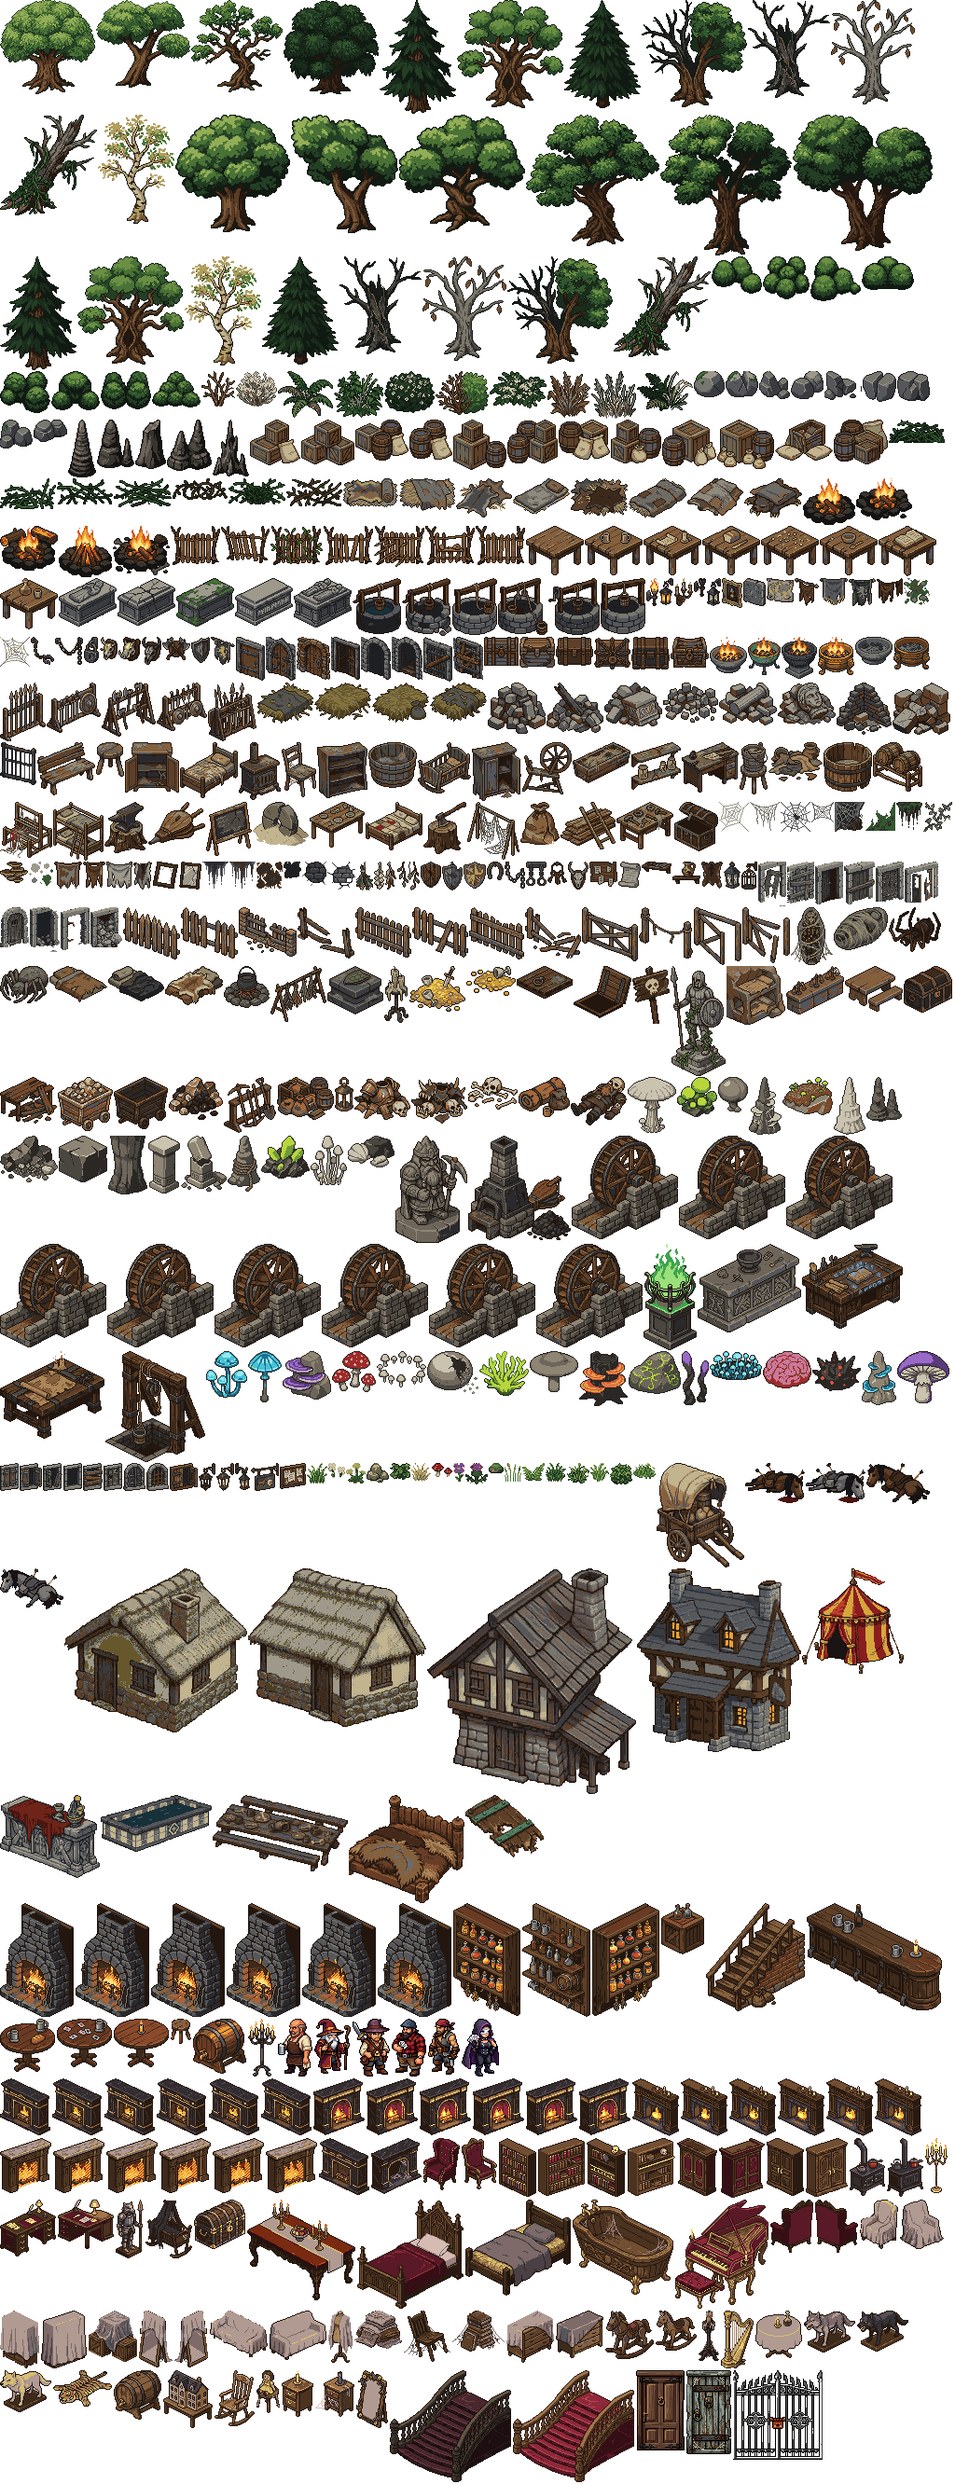
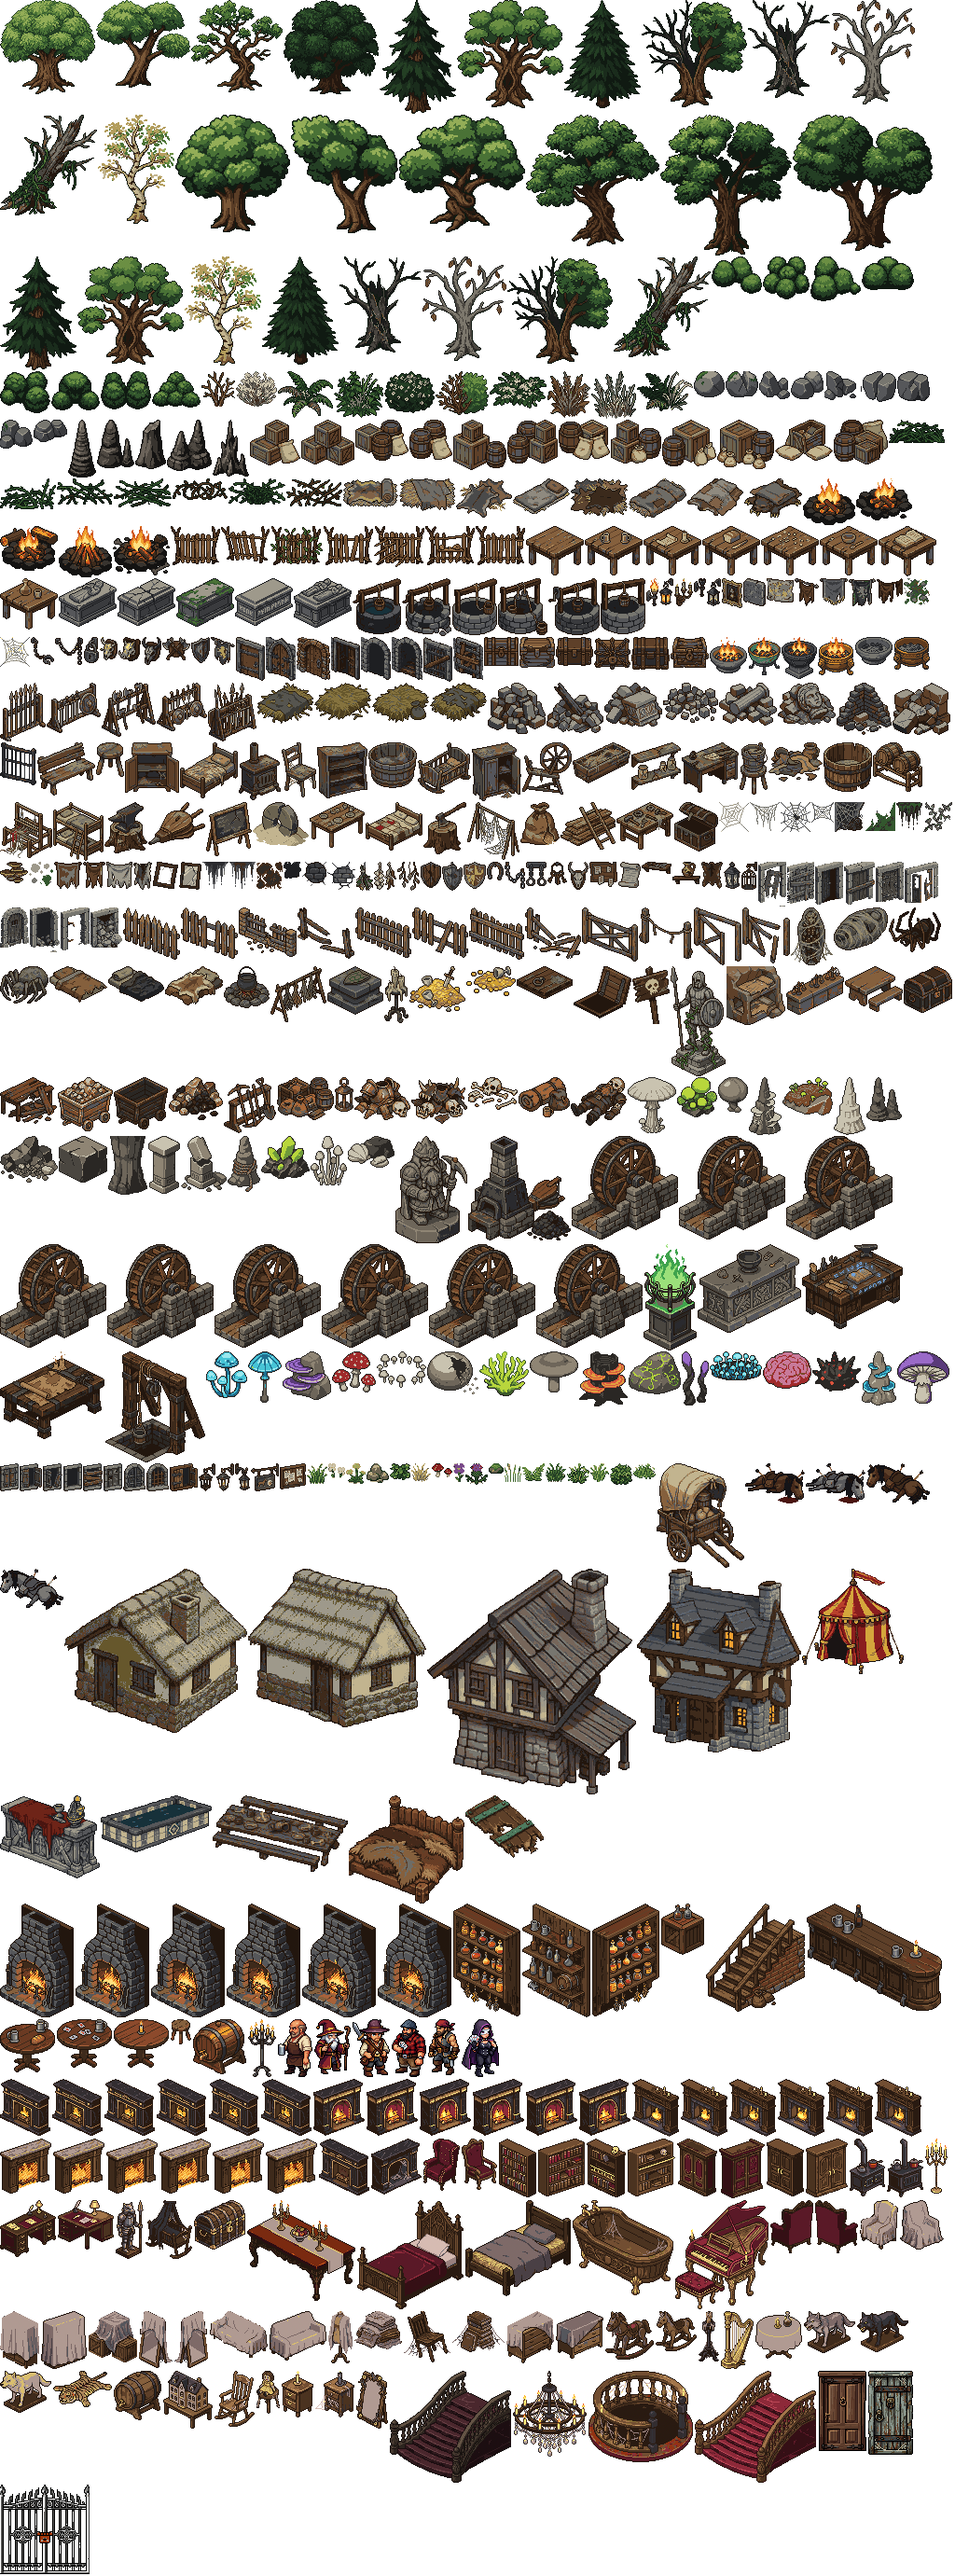
Casa da Morte: piso por sala, luz quente das lareiras, lustre, vão da escada do 3º andar e textos das áreas reescritos
- piso: parquet na sala de jantar, laje na cozinha, despensa, vestíbulo, banheiro e sala secreta, assoalho no resto
- ambiente.js: lareiras acesas e candelabros da casa viram poça de luz quente
- casa-objetos-1dir.py: casaLustre e casaVaoEscada; o lustre pende acima da mesa (folga alta e deslocamento), o vão do 3º andar é só o corrimão
- textos das áreas (biblioteca, salão, canil, banheiro, depósito, suíte da babá, quarto das crianças) em palavras nossas

diff --git a/src/game/casadamorte.js b/src/game/casadamorte.js
@@ -20,10 +20,10 @@ export { MAPA_CASA_DA_MORTE_3, MAPA_CASA_DA_MORTE_4, TERCEIRO_ANDAR, SOTAO };
 // com o pórtico 1A) e o canil de lobos (3) ao sul. O vestíbulo, ao lado do armário (2B), liga a sala de jantar à cozinha.
 export const PLANTA_1 = plantaDeSalas({
   salas: [
-    { id: 'jantar', retangulos: [[0, 0, 3, 2], [1, 3, 1, 3]] },
-    { id: 'despensa', retangulos: [[4, 0, 5, 0]] },
-    { id: 'cozinha', retangulos: [[4, 1, 5, 3]] },
-    { id: 'vestibulo', retangulos: [[3, 3, 3, 3]] },
+    { id: 'jantar', piso: '-', retangulos: [[0, 0, 3, 2], [1, 3, 1, 3]] },
+    { id: 'despensa', piso: 'L', retangulos: [[4, 0, 5, 0]] },
+    { id: 'cozinha', piso: 'L', retangulos: [[4, 1, 5, 3]] },
+    { id: 'vestibulo', piso: 'L', retangulos: [[3, 3, 3, 3]] },
     { id: 'vestiario', retangulos: [[2, 3, 2, 3]] },
     { id: 'salao', retangulos: [[0, 4, 5, 6]] },
     { id: 'espera', retangulos: [[0, 7, 1, 9]] },
@@ -42,10 +42,10 @@ export const PLANTA_1 = plantaDeSalas({
 export const PLANTA_2 = plantaDeSalas({
   piso: '-',
   salas: [
-    { id: 'biblioteca', retangulos: [[0, 0, 3, 2], [1, 3, 2, 3]] },
-    { id: 'armario', retangulos: [[3, 3, 3, 3]] },
-    { id: 'secreta', retangulos: [[4, 0, 5, 0]] },
-    { id: 'empregados', retangulos: [[4, 1, 5, 3]] },
+    { id: 'biblioteca', piso: 'U', retangulos: [[0, 0, 3, 2], [1, 3, 2, 3]] },
+    { id: 'armario', piso: 'U', retangulos: [[3, 3, 3, 3]] },
+    { id: 'secreta', piso: 'L', retangulos: [[4, 0, 5, 0]] },
+    { id: 'empregados', piso: 'U', retangulos: [[4, 1, 5, 3]] },
     { id: 'salao', retangulos: [[0, 4, 5, 6]] },
     { id: 'conservatorio', retangulos: [[0, 7, 5, 10]] },
   ],
@@ -64,8 +64,8 @@ export const AREAS_TERREO = [
   criarArea({
     id: 'salao', area: '2A', nome: 'O salão principal', cel: [[0, 4, 5, 6]],
     texto: [
-      'Um salão tão largo quanto a casa. Numa ponta, uma lareira de mármore preto; na outra, uma escadaria larga de mármore vermelho, que sobe em curva. Sobre o fogo apagado, uma espada longa de enfeite, com um pequeno moinho no punho.',
-      'Os painéis de madeira da parede são entalhados com videiras, flores, ninfas e sátiros.',
+      'O salão ocupa a largura da casa. Numa ponta, uma lareira de pedra negra; na outra, a escadaria de mármore vermelho sobe em curva. Sobre o fogo apagado repousa uma espada de adorno, com um moinho gravado no punho.',
+      'A madeira das paredes é entalhada em folhagens, flores e figuras de faunos e ninfas.',
     ],
   }),
   criarArea({
@@ -75,8 +75,8 @@ export const AREAS_TERREO = [
   criarArea({
     id: 'canil', area: '3', nome: 'O canil de lobos', cel: [[2, 7, 5, 10]],
     texto: [
-      'Painéis de carvalho, uma cabeça de veado sobre a lareira e três lobos empalhados espalhados pela sala, de bocas abertas. Duas poltronas forradas de pele encaram o fogo, com uma mesa de carvalho entre elas: um barril de vinho, duas taças esculpidas e um suporte de cachimbos.',
-      'Há dois armários contra as paredes. O do leste tem cadeado; o do norte está aberto.',
+      'Uma sala de caça forrada de carvalho. Sobre a lareira, uma cabeça de veado; pelo chão, três lobos empalhados de bocas abertas. Duas poltronas forradas de pele encaram o fogo, e uma mesinha entre elas guarda um barrilete, taças lavradas e um porta-cachimbos.',
+      'Dois armários ficam junto às paredes: o do leste está trancado a cadeado, o do norte, aberto.',
     ],
   }),
   criarArea({
@@ -121,8 +121,8 @@ export const AREAS_SEGUNDO = [
   criarArea({
     id: 'biblioteca', area: '8', nome: 'A biblioteca', cel: [[0, 0, 3, 2], [1, 3, 2, 3]],
     texto: [
-      'Cortinas de veludo vermelho cobrem as janelas. Uma escrivaninha de mogno e uma cadeira de espaldar alto ficam entre a porta e a lareira, e acima do fogo está pendurado um quadro de um moinho de vento sobre um penhasco. Estantes do chão ao teto, uma escada de rodinhas para os livros altos.',
-      'Na escrivaninha: um tinteiro, uma pena, um barrilete de pólvora, uma lamparina e um estojo de carta com lacre vermelho e um selo de madeira com o moinho dos Durst.',
+      'Pesadas cortinas vinho fecham as janelas. Entre a porta e a lareira, uma escrivaninha escura e uma cadeira de encosto alto; sobre o consolo, um quadro mostra um moinho no alto de um rochedo. Os livros chegam ao teto, e uma escadinha sobre trilhos serve às prateleiras de cima.',
+      'O tampo da escrivaninha guarda um tinteiro, uma pena, um pequeno barril de pólvora, uma lamparina e um estojo de cartas lacrado em vermelho, com o selo do moinho dos Durst.',
     ],
   }),
   criarArea({

diff --git a/src/game/casadamorte-alto.js b/src/game/casadamorte-alto.js
@@ -22,7 +22,7 @@ export const PLANTA_3 = plantaDeSalas({
     { id: 'sacadaNorte', retangulos: [[5, 0, 5, 1]] },
     { id: 'espelho', retangulos: [[3, 3, 3, 3]] },
     { id: 'varanda', retangulos: [[1, 3, 2, 3], [2, 4, 5, 6]] },
-    { id: 'banheiro', retangulos: [[0, 4, 1, 5]] },
+    { id: 'banheiro', piso: 'L', retangulos: [[0, 4, 1, 5]] },
     { id: 'deposito', retangulos: [[0, 6, 1, 6]] },
     { id: 'bercario', retangulos: [[0, 7, 1, 8]] },
     { id: 'sacadaSul', retangulos: [[0, 9, 1, 10]] },
@@ -89,20 +89,20 @@ export const AREAS_TERCEIRO = [
   criarArea({
     id: 'banheiro', area: '13', nome: 'O banheiro', cel: [[0, 4, 1, 5]],
     texto: [
-      'Um quarto escuro: banheira de madeira com pés de garra, um fogãozinho de ferro com uma chaleira, um barril sob uma torneira na parede leste. A cisterna do telhado recolhia a água da chuva e a mandava para baixo por um cano. O encanamento não funciona mais.',
+      'Um cômodo sem luz e de ar parado. Há uma banheira de madeira sobre pés de garra, um fogareiro de ferro com uma chaleira e um barril sob uma torneira, junto da parede leste. Antigamente a água da chuva descia do telhado por um cano; hoje o encanamento está seco.',
     ],
   }),
   criarArea({
     id: 'deposito', area: '14', nome: 'O depósito', cel: [[0, 6, 1, 6]],
     texto: [
-      'Prateleiras empoeiradas ao longo das paredes, com lençóis e cobertores dobrados e barras de sabão ressecadas. No fundo, encostada à parede, uma vassoura coberta de teia.',
+      'Prateleiras cobertas de pó correm pelas paredes, com roupa de cama dobrada e pedaços de sabão seco. No fundo, uma vassoura velha, toda enrolada em teia, parece esperar.',
     ],
   }),
   criarArea({
     id: 'suiteBaba', area: '15A', nome: 'A suíte da babá', cel: [[2, 7, 2, 7], [2, 8, 5, 10]],
     texto: [
-      'Poeira e teias sobre um quarto bem decorado: uma cama grande, duas mesas de canto, um guarda-roupa vazio. Preso à parede ao lado do guarda-roupa, um espelho de corpo inteiro com a moldura esculpida como hera e bagas.',
-      'A babá da família era amante do dono da casa. Do caso nasceu um bebê natimorto, Walter, e pouco depois o culto matou a mulher. Uma porta dupla de vitral dá para uma varanda de fora, de frente para a entrada.',
+      'Teias e pó cobrem um quarto antes elegante: uma cama larga, criados-mudos e um guarda-roupa vazio. Na parede, ao lado dele, um espelho alto com a moldura entalhada em hera e frutinhas.',
+      'Diz-se que a babá da família foi amante do dono da casa, que o filho dos dois nasceu morto e que o culto a matou pouco depois. Portas de vitral dão para uma sacada de fora, voltada para a entrada.',
     ],
   }),
   criarArea({
@@ -130,7 +130,7 @@ export const AREAS_SOTAO = [
   criarArea({
     id: 'criancas', area: '20', nome: 'O quarto das crianças', cel: [[2, 0, 4, 2]],
     texto: [
-      'Uma janela tapada por tijolos, duas camas pequenas de estrutura de madeira, empoeiradas, e, perto da porta, um baú de brinquedos com moinhos de vento pintados e uma casa de bonecas que é uma réplica perfeita da casa em que vocês estão. Tudo sob teias.',
+      'A janela foi emparedada com tijolos. Duas caminhas de criança, de madeira, juntam pó; perto da porta há um baú de brinquedos pintado de moinhos e uma casa de bonecas que copia, em miniatura, esta mesma casa. Tudo sob teias.',
       'No meio do chão, dois esqueletos pequenos, de roupas esfarrapadas que vocês reconhecem. O de Thorn abraça o boneco de pano do irmão.',
     ],
   }),

diff --git a/src/game/casadamorte-mobilia.js b/src/game/casadamorte-mobilia.js
@@ -12,7 +12,7 @@
 
 import { D } from './casadamorte-plantas.js';
 
-const PISO_DO_GLIFO = { U: 'assoalho', '*': 'tapete', '-': 'parquet', '+': 'terraSocada' };
+const PISO_DO_GLIFO = { U: 'assoalho', '*': 'tapete', '-': 'parquet', '+': 'terraSocada', L: 'laje' };
 
 /** Põe as peças no terreno e devolve o terreno novo e as anotações de `objetos`. As casas da lista são quadrados do livro (o mapa tem um anel a mais). */
 export function mobiliar(terreno, lista, pisoPadrao = 'assoalho') {
@@ -42,7 +42,7 @@ export const MOBILIA = {
     // sala de jantar (5): lareira na parede oeste, a mesa comprida ao longo de x e as cadeiras do lado do norte (o sul fica livre para a passagem)
     ['casa-lareira:+x', 0, 1],
     ['casa-mesaJantar:+x', 2, 1, { nada: [[1, 1]] }],
-    ['casa-cadeira:+y', 1, 0], ['casa-cadeira:+y', 2, 0], ['casa-candelabro:+y', 0, 0],
+    ['casa-cadeira:+y', 1, 0], ['casa-cadeira:+y', 2, 0], ['casa-candelabro:+y', 0, 0], ['casa-lustre:+y', 2, 2, { baixo: true }],
     // cozinha (4A) e despensa (4B): o forno na parede do norte e a estante da despensa
     ['casa-fogao:+y', 5, 1], ['casa-estante:+y', 5, 0],
     // salão principal (2A): a lareira na parede oeste e a escadaria em curva a leste
@@ -86,7 +86,7 @@ export const MOBILIA = {
     ['casa-berco:+y', 0, 8],
     // suíte da babá (15A): a cama ao longo da parede leste, o guarda-roupa coberto e o espelho coberto junto da porta secreta, na parede do poço
     ['casa-camaVelha:+y', 5, 10, { nada: [[5, 9]] }], ['casa-armarioCoberto:+y', 4, 8], ['casa-espelhoHera:+y', 5, 8], ['casa-criadoVelho:+y', 4, 10],
-    ['casa-escadariaVelha:+x', 5, 6, { nada: [[4, 5], [5, 5], [4, 6]] }],
+    ['casa-vaoEscada:+x', 5, 6, { nada: [[4, 5], [5, 5], [4, 6]] }],
   ],
 
   // ----------------------------------------------------------------------------------------------------- sótão ---

diff --git a/src/view/board.js b/src/view/board.js
@@ -1657,7 +1657,7 @@ export class Board {
       // com o centro da base no centro da casa. A sombra acompanha a largura.
       const r = Math.max(SOMBRA_DO_BAIXO[s.objeto], Math.round(baixo.w * 0.34));
       // Peça de parede, balcão e escada já trazem a sombra no desenho: a elipse seria uma mancha.
-      if (!/^prop-taverna-(lareira|prateleira|balcao|escada)|^prop-casa-(lareira|estante|guardaRoupa|fogao|escadaria|escadariaVelha|armarioCoberto|comodaCoberta|espelhoCoberto|espelhoHera|tigre)/.test(prop?.grupo ?? '')) {
+      if (!/^prop-taverna-(lareira|prateleira|balcao|escada)|^prop-casa-(lareira|estante|guardaRoupa|fogao|escadaria|escadariaVelha|armarioCoberto|comodaCoberta|espelhoCoberto|espelhoHera|tigre|lustre|vaoEscada)/.test(prop?.grupo ?? '')) {
         ctx.fillStyle = 'rgba(0,0,0,.25)';
         ctx.beginPath();
         ctx.ellipse(cx + 3, cy + 2, r, r * 0.42, 0, 0, Math.PI * 2);

diff --git a/src/view/ambiente.js b/src/view/ambiente.js
@@ -69,6 +69,8 @@ export function emissoresDoAmbiente(field) {
     else if (ESPECIES[o.variante]) e.especies.push({ x: o.x, y: o.y, ...ESPECIES[o.variante] });
     else if (o.variante === 'cristais') e.cristais.push({ x: o.x, y: o.y });
     else if (o.variante === 'braseiroVerde') e.brasas.push({ x: o.x, y: o.y, cor: '150, 255, 150' });
+    // A Casa da Morte: a luz quente das lareiras acesas e dos candelabros (as apagadas, dos andares de cima, não acendem).
+    else if (/^casa-(lareira|lareiraB|candelabro):/.test(o.variante)) e.brasas.push({ x: o.x, y: o.y, cor: '255, 168, 72' });
   }
   e.vazio = !Object.values(e).some((l) => l.length);
   CACHE.set(field, e);

diff --git a/src/dev/casa-objetos-1dir.py b/src/dev/casa-objetos-1dir.py
@@ -234,6 +234,36 @@ obj.CONJUNTOS.update({
         ],
         'target_palette': {'colors': PALETA},
     },
+    # O lustre da sala de jantar (pende do teto, desenhado alto sobre a mesa) e o VAO da escada do 3o andar (so o corrimao em volta do poco).
+    'casaLustre': {
+        'description': ('ONE hanging crystal chandelier with a black iron frame and about twelve lit candles, hanging in the air '
+                        'with a short iron chain at the top, about 70 px wide and 60 px tall, seen from the front-left in isometric '
+                        '2:1 view. No ceiling, no table, no ground. ' + ESTILO + PIXEL),
+        'size': 96,
+        'view': 'top-down',
+        'item_descriptions': [
+            'large crystal chandelier with a black iron frame, many lit candles and hanging crystal drops',
+            'round black iron chandelier with two tiers of lit candles and crystal drops',
+            'ornate brass and crystal chandelier with lit candles',
+            'gothic wrought iron chandelier with lit candles and a small chain',
+        ],
+        'target_palette': {'colors': PALETA},
+    },
+    'casaVaoEscada': {
+        'description': ('A stairwell opening seen from above, TWO floor tiles wide by TWO tiles long (about 128 px wide): a '
+                        'half-round dark opening in the floor with NO steps, surrounded by a carved dark oak banister with '
+                        'balusters and a black newel post, a rim of red marble, seen from the front-left in isometric 2:1 view, '
+                        'about 36 px tall, sitting on the bottom of the canvas. No ground. ' + ESTILO + PIXEL),
+        'size': 128,
+        'view': 'top-down',
+        'item_descriptions': [
+            'round dark stairwell opening with a carved oak banister around it and a red marble rim, dusty, cobwebs',
+            'half-round stairwell hole with an oak balustrade and a black newel post, dusty',
+            'stairwell opening surrounded by an old oak banister with a missing baluster, cobwebs',
+            'wide round stairwell opening with a carved dark oak banister, red marble edge',
+        ],
+        'target_palette': {'colors': PALETA},
+    },
 })
 
 if __name__ == '__main__':

diff --git a/src/dev/acrescentar-casa-objetos.py b/src/dev/acrescentar-casa-objetos.py
@@ -84,6 +84,9 @@ PECAS = {
     'espelhoHera': {'conjunto': 'casaFaltam', 'n': 14, 'dirs': ['+y'], 'folga': 4},
     # a escadaria dos andares abandonados: a mesma, desbotada e escurecida
     'escadariaVelha': {'conjunto': 'casaEscadaria', 'n': 3, 'dirs': ['+x'], 'folga': 2, 'envelhecer': True},
+    # o lustre PENDE do teto: a folga alta o ergue, e `dx`/`dy` (px de tela) o centram sobre a mesa; o vao da escada do 3o andar e so o corrimao
+    'lustre': {'conjunto': 'casaLustre', 'n': 0, 'dirs': ['+y'], 'folga': 66, 'dx': 16, 'dy': -24},
+    'vaoEscada': {'conjunto': 'casaVaoEscada', 'n': 0, 'dirs': ['+x'], 'folga': 2},
     'escadaria': {'conjunto': 'casaEscadaria', 'n': 3, 'dirs': ['+x'], 'folga': 2},
 }
 
@@ -174,7 +177,7 @@ def main():
                 im = Image.open(ultimo('casaPecasLeste') / f"frame_urls_{spec['leste']}.png").convert('RGBA')
                 q = im.crop(im.getbbox())
             else:
-                q = base if d in ('+y', '-y') or spec['conjunto'] in ('casaEscadaria', 'casaTinaIso') else base.transpose(Image.FLIP_LEFT_RIGHT)
+                q = base if d in ('+y', '-y') or spec['conjunto'] in ('casaEscadaria', 'casaTinaIso', 'casaVaoEscada') else base.transpose(Image.FLIP_LEFT_RIGHT)
             if spec.get('apagar') and not (d == '+x' and spec.get('leste') is not None):
                 q = apagar(q)
             if spec.get('envelhecer'):
@@ -182,6 +185,8 @@ def main():
             elif spec['conjunto'] != 'casaAbandono':
                 q = aclarar(q)
             ax, ay = tav.ancora_da_pegada(q, spec['folga'])
+            ax -= spec.get('dx', 0)
+            ay -= spec.get('dy', 0)
             if spec.get('ax') is not None:           # a ancora medida a mao, quando o pe mais baixo e de outra peca (o banco do cravo)
                 ax = spec['ax']
             n = spec.get('fogo')
